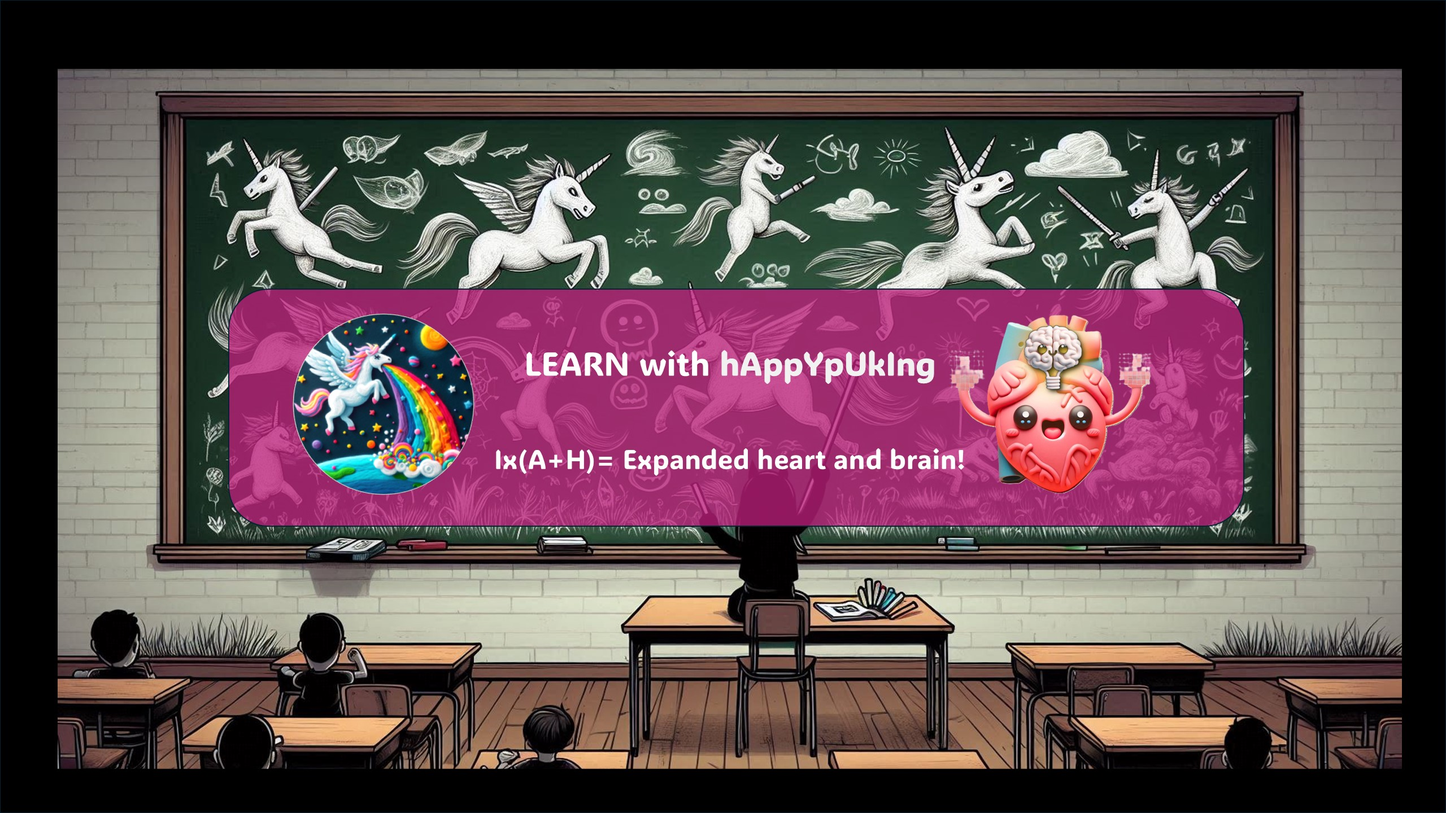
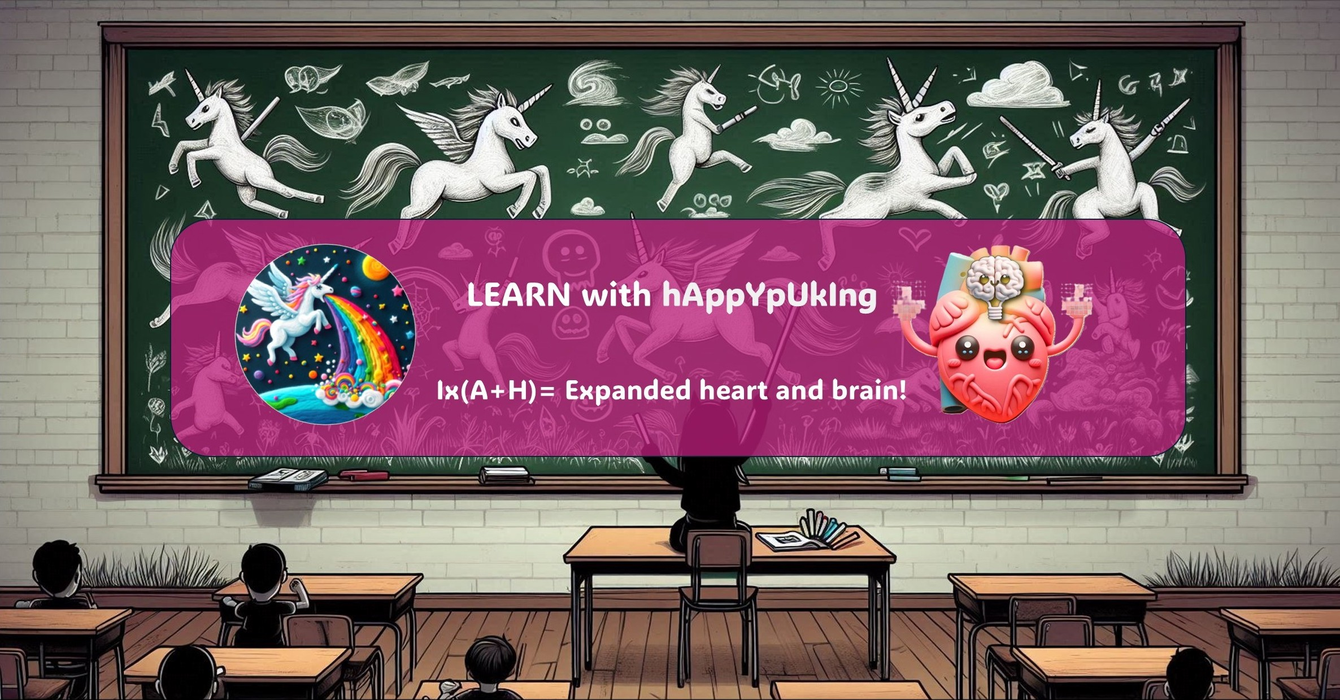
fix:README img update

diff --git a/README.md b/README.md
@@ -1,4 +1,4 @@
-<img src="file:///G:/GHU%20Codexsphere/_Misc/HappypukingNuevoBanner.jpg" title="" alt="HappypukingNuevoBanner.jpg" width="642">
+<img title="" src="file:///G:/GHU%20Codexsphere/happypuking-lab/assets/HappypukingNuevoBanner.jpg" alt="HappypukingNuevoBanner.jpg" width="590">
 
 ### hAppYpUkIng — Lab
 
